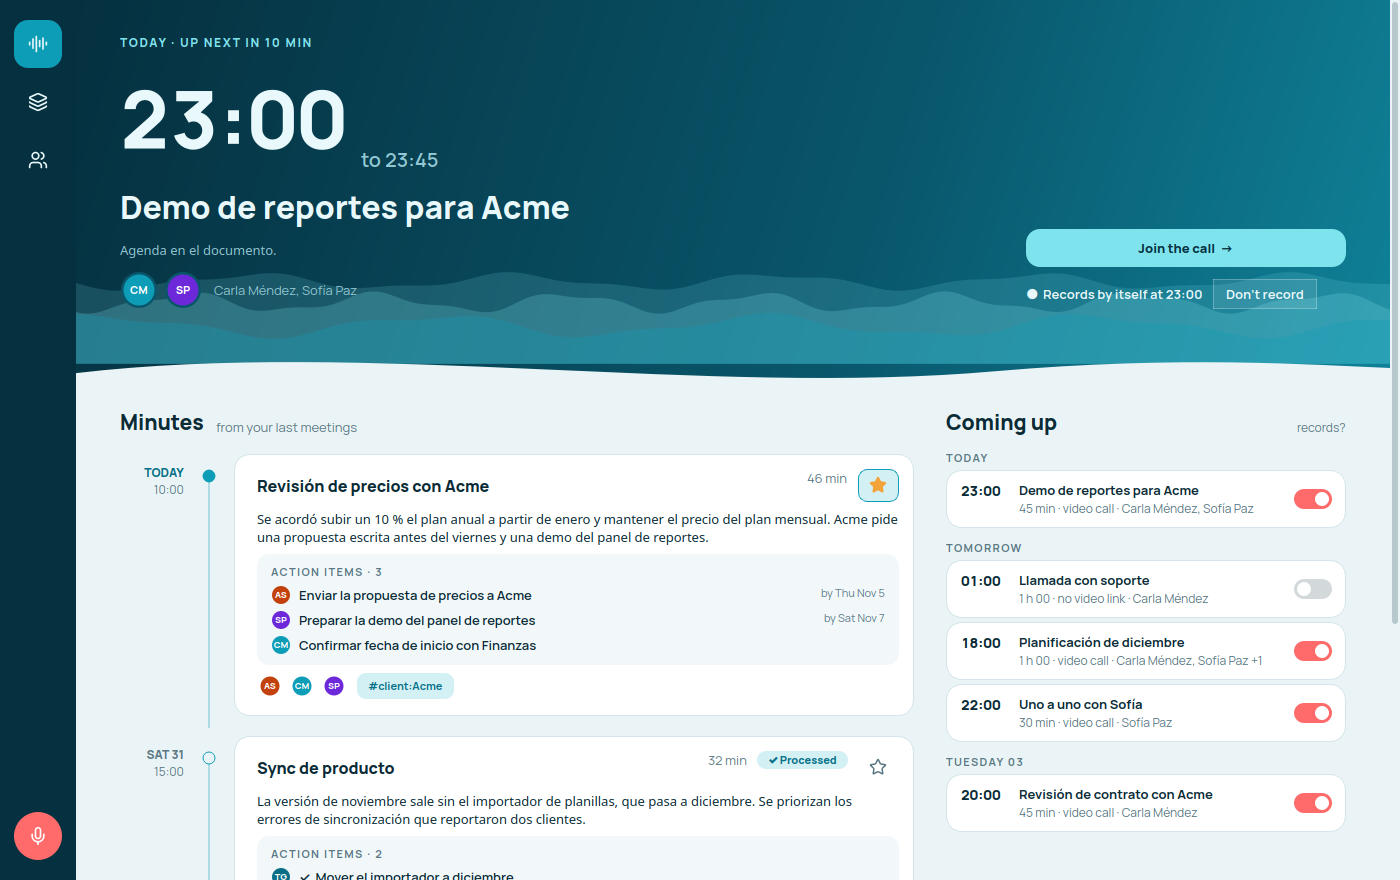
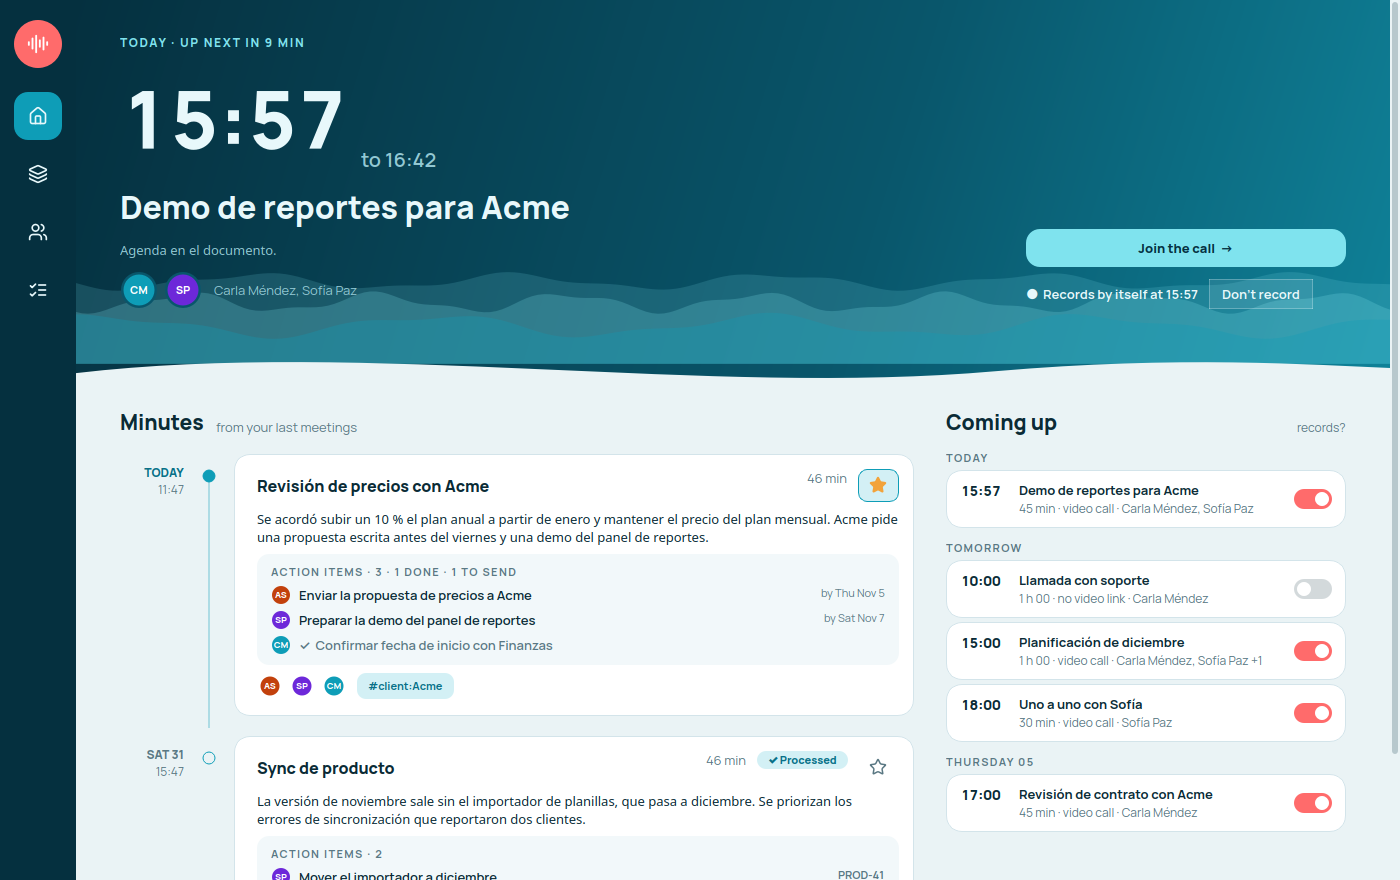
Document the action items page, undo, keys and note times
The guide, changelog, README and Studio roadmap describe them, and the OpenSpec change records
the requirements and the choices made. docs/studio.png is taken again, offscreen with invented
meetings, with Record at the top of the rail and the Action items page in it.

diff --git a/docs/guide.md b/docs/guide.md
@@ -70,7 +70,9 @@ their title from their first sentence.
 **Recording dock.** Ctrl+Shift+D (or View → Recording dock) swaps the window for a small dock
 that floats over other windows: Record, the time, a small wave that follows your voice, Marker
 (with a count), Notes, Pause, Stop and a button back to the window. Notes (or N) drops a field
-under the dock with the recording's notes, the same ones as in Details, saved as you type. While
+under the dock with the recording's notes, the same ones as in Details, saved as you type; Ctrl+T
+in it writes the recording's time, as in `[12:34] price`, and the minutes then cover what was said
+at that moment the way they cover a marker. While
 recording, with the pointer away for a few seconds and the notes closed, it shrinks to the time;
 point at it for the rest. Problems such as a silent
 microphone show in it in amber. After Stop it says the recording was saved and how the
@@ -346,7 +348,7 @@ turn automatic summaries off.
 
 **The window.** Once a server or a calendar is set, a rail at the left holds Record at the top
 (the coral waveform, Ctrl+R), then Briefing (Ctrl+1), Recordings (Ctrl+2: Echo's window as always)
-and People (Ctrl+3). Record works from any page and records from the input chosen under Record in
+People (Ctrl+3) and Action items (Ctrl+4). Record works from any page and records from the input chosen under Record in
 Recordings; while it records, the rail shows the time under it, and pressing it again stops.
 
 **Briefing.** At the top, the next meeting from your calendar: its time, title, invitation, who
@@ -375,6 +377,13 @@ per summary, for everyone named in it, and is kept in `parts.json` in the record
 meeting summarized before this version has the line without the points until you summarize it
 again. Stars are kept in `marks.json`.
 
+**Action items.** The rail's Action items page lists the items not yet checked off from every
+meeting, newest meeting first, under a heading per meeting (click it to open that meeting's Action
+items). It works like a meeting's view, so you can clear last week's items without opening each
+call: check them off, switch them on for the tracker, edit or discard them. Items you check off or
+discard leave the page; the meeting's own view still has them. The filter at the top matches an
+item's words, its owner and its meeting's title.
+
 **Minutes.** Over the transcript, a Transcript / Minutes / Action items switch. Minutes shows the
 selected recording's summary, with Summarize (Summarize again once there is one) and Copy. Its
 action items have a view of their own, so neither is squeezed when the window is narrow; the
@@ -398,12 +407,18 @@ checkbox, a title, a description
 (what exactly and why, with the details that were said, so it stands on its own in a tracker), its
 owner, the date it was promised for and a button that plays where it came up. They come from a
 request of their own over the summary and the transcript, so they can include commitments the
-summary's next steps leave out. Check an item off when it is done: it folds to its title, struck
-through, and stays in the list. The check mark is yours: Echo never marks items late and does not
+summary's next steps leave out. Check an item off when it is done: it moves to the end, under a
+"done" line where Show lists the checked-off ones. The check mark is yours: Echo never marks items late and does not
 remind you. The pencil corrects the title, description, owner and date, adds context for whoever
 picks the item up and a note only for you; the cross discards it (discarded items fold into one
 line, where Show lists them with Restore), and Add writes one by hand. A person's page in People
-lists the items assigned to them, to work on there too. The items are kept in `actions.json` in
+lists the items assigned to them, to work on there too. After checking an item off, discarding it
+or switching them all, a bar says what changed: **Undo** (or Ctrl+Z) takes it back for a few
+seconds.
+
+The lists work from the keyboard: click an item, or Tab into the list, then ↑ and ↓ (or J and K)
+move between items, Space checks the current one off, T switches it for the tracker, E or Enter
+edits it, Delete discards it (or restores a discarded one), and Ctrl+Z undoes. The items are kept in `actions.json` in
 the recording's folder; summarizing again keeps your edits, context, notes, check marks, discards
 and the items you added. Items from summaries made before
 this version have no description until you summarize again.
@@ -413,6 +428,8 @@ you use for that (an agent, a script, a scheduled sync) asks Echo for what you a
 it what happened. Not every item belongs in a tracker, so nothing goes until you choose it: each
 item has a **To tracker** switch, off to begin with. Switch on the ones that should go; until they
 are sent you can still edit them or switch them off again. Discarding an item switches it off.
+When most of a meeting's items should go, **Switch all on** in the bar above them switches every
+open one on (done and discarded ones are left as they are); then switch off the few that stay.
 
 When something sends them:
 - Each item shows **✓ Sent · REF**, a link to it in the tracker, and can no longer be edited in

diff --git a/openspec/changes/refine-studio-record-and-actions/specs/studio-actions/spec.md b/openspec/changes/refine-studio-record-and-actions/specs/studio-actions/spec.md
@@ -6,8 +6,17 @@ the width of the content; its tab SHALL show how many items are not done. Minute
 summary alone. Each item SHALL show a done checkbox, its title, owner, due date as "by <date>",
 description, context, the user's note and a button that plays where it came up.
 
+Done items SHALL move to the end of a list, folded under one line ("N done") that shows them.
+After an item is checked off or discarded, or a meeting's items are all switched, the list SHALL
+offer to undo it for a few seconds (also with Ctrl+Z). The lists SHALL work from the keyboard:
+↑/↓ (or J/K) to move, Space to check off, T to switch for the tracker, E or Enter to edit, Delete
+to discard or restore.
+
 A person's page SHALL list the items assigned to them across the library, newest first, and they
-SHALL be worked on there as in the Action items view. No screen SHALL mark items as late or
+SHALL be worked on there as in the Action items view. The rail's Action items page SHALL list
+every item not done nor discarded across the library, newest meeting first, under a heading per
+meeting that opens its Action items, with a filter on the item's words, owner and meeting title;
+an item checked off or discarded there SHALL leave the page. No screen SHALL mark items as late or
 pending, and Echo SHALL NOT remind about them.
 
 #### Scenario: A narrow window
@@ -16,7 +25,11 @@ pending, and Echo SHALL NOT remind about them.
 
 #### Scenario: Checked off
 - **WHEN** the user checks "Revisar el contrato marco"
-- **THEN** it shows struck through on one line, `actions.json` has it done, and the tab counts one fewer
+- **THEN** it moves under "1 done" at the end, `actions.json` has it done, the tab counts one fewer, and Undo takes it back
+
+#### Scenario: Last week's items
+- **WHEN** three meetings have open items and the user opens Action items in the rail and types "lucía"
+- **THEN** the page shows the open items Lucía owns, under the heading of each meeting they came from
 
 ### Requirement: Sending action items to a tracker
 Each item SHALL have a state (proposed, ready, sent or failed) and a uid that summarizing again
@@ -24,7 +37,8 @@ does not change.
 
 Each item SHALL have a To tracker switch, off by default. Switching it on SHALL make the item
 ready, switching it off SHALL make it proposed, and discarding it SHALL switch it off. Switching a
-failed item on SHALL make it ready again.
+failed item on SHALL make it ready again. Switch all on SHALL switch on every item of the meeting
+that is not done, discarded or sent (Switch all off, every one of those off).
 
 An item marked sent SHALL keep the tracker's reference, link and time, show them, and SHALL NOT
 be edited, discarded or switched in Echo afterwards; it SHALL still take the done mark. An item

diff --git a/openspec/changes/refine-studio-record-and-actions/proposal.md b/openspec/changes/refine-studio-record-and-actions/proposal.md
@@ -30,6 +30,13 @@ Using Studio for a few days showed two things in the way:
 
 - **No instructions on screen.** The view has no paragraph explaining itself; each control's
   tooltip says what it does.
+- **Working through items.** Done items move to the end, folded under "N done". Undo (and
+  Ctrl+Z) takes back a check mark, a discard or a Switch all on. The lists work from the keyboard.
+  Switch all on chooses every open item of a meeting at once.
+- **Every meeting's items.** An Action items page in the rail (Ctrl+4) lists the open items of
+  all meetings under a heading per meeting, with a filter.
+- **Notes with a time.** A note line that starts with "[12:34]" (the dock's Ctrl+T writes it) is
+  sent with what was said then, as a marker is.
 - **Scrolling.** The Action items list, the Briefing and People paint an opaque background, so a
   scroll moves what is painted instead of repainting every card (it chugged on the user's screen).
 
@@ -40,11 +47,12 @@ Using Studio for a few days showed two things in the way:
 - `studio-actions` (from `add-studio-actions`, `change-studio-action-edits`,
   `refine-studio-after-first-use` and `add-studio-tracker-handoff`, not yet archived)
 - `studio-home` (from `add-studio-home` and `refine-studio-after-first-use`, not yet archived)
+- `studio-summaries` (from `add-studio-notes-first`, not yet archived)
 
 ## Impact
 
 - Code: `src/echo_studio/actions.py`, `actions_ui.py`, `ui.py`, `home.py`, `window.py`,
-  `widgets.py`, `data.py`, `cli.py`, `__init__.py`. Echo gains the `house` icon (Lucide).
+  `widgets.py`, `data.py`, `cli.py`, `summary.py`, `__init__.py`. Echo gains the `house` icon (Lucide).
 - Files: `actions.json` items gain `done`; `ready_at` now means "reviewed".
 - Command line: `done` in the item JSON and in `status`; help reworded. No command removed.
 - `agents/echo/SKILL.md`, `docs/guide.md`, `docs/studio-roadmap.md`, `CHANGELOG.md`.

diff --git a/README.md b/README.md
@@ -52,7 +52,7 @@ and organizes your meetings around your calendar. Install it with `./install.sh 
 | **What you get** | Audio, transcripts, speakers, search, exports | Minutes, action items, people, and a hand-off to the tools your team already uses |
 
 <p align="center">
-  <img src="docs/studio.png" alt="Echo Studio's Briefing: the next meeting in a deep teal band, the minutes of the last meetings with their action items, and the week's meetings with a record switch each" width="900">
+  <img src="docs/studio.png" alt="Echo Studio's Briefing: Record at the top of the rail, the next meeting in a deep teal band, the minutes of the last meetings with their action items, and the week's meetings with a record switch each" width="900">
 </p>
 
 - **Briefing.** The next meeting from your calendar (a private ICS address from Google Calendar
@@ -60,7 +60,8 @@ and organizes your meetings around your calendar. Install it with `./install.sh 
 - **Records by itself** when a meeting with a video link starts, and names it after the event.
 - **Minutes** written from the transcript and your notes, with a template per kind of meeting.
 - **Action items** in a view of their own, with owner, date, a description and the moment they
-  were said. Check them off, correct, discard or add them.
+  were said, and on a page with every meeting's open ones. Check them off, correct, discard or add
+  them, from the mouse or the keyboard.
 - **People** by email: the meetings with each one, their part in them and their action items.
   Star and tag meetings to find them again.
 - **Ready for your tracker.** Switch on the items that should go, and any script or agent picks

diff --git a/CHANGELOG.md b/CHANGELOG.md
@@ -12,13 +12,20 @@ tag.
 - The recording dock has Notes (N): the recording's notes in a field under the dock, saved as
   you type.
 - Settings → General: "Switch to the recording dock when a recording starts".
+- Ctrl+T in the dock's notes writes the recording's time (`[12:34]`); Echo Studio's minutes cover
+  what was said at that moment, as they do for a marker.
+- Echo Studio: an Action items page in the rail (Ctrl+4) with every meeting's open items, under a
+  heading per meeting, with a filter.
+- Echo Studio: Switch all on (or off) for a meeting's items, Undo (and Ctrl+Z) after checking an
+  item off, discarding it or switching them all, and keys for the item lists (↑↓ or J/K, Space,
+  T, E, Delete).
 
 ### Changed
 
 - Echo Studio: Record heads the rail, with the waveform and the elapsed time, so recording no
   longer starts from the list of past meetings. The Briefing's icon is a house.
 - Echo Studio: action items have their own view beside Minutes, with a done checkbox and a
-  To tracker switch per item. Sending is opt-in: nothing goes to the tracker until switched on.
+  To tracker switch per item; checked-off items move to the end, folded under "N done". Sending is opt-in: nothing goes to the tracker until switched on.
   Ready to send… is replaced by "Done with this meeting"; meetings marked ready in 1.5.0 keep
   their items. Scrolling the items, the Briefing and People no longer repaints every card.
 

diff --git a/docs/studio-roadmap.md b/docs/studio-roadmap.md
@@ -269,7 +269,9 @@ After a few days of use: Record heads the rail (waveform, clock), so recording n
 list of past meetings. Action items get their own view beside Minutes,
 each with a done checkbox (the user's mark; still no late dates or reminders) and a To tracker
 switch, off by default: sending is opt-in per item, and "Done with this meeting" replaces Ready
-to send.
+to send. Then, to work through them: done items fold to the end, Undo, keys, Switch all on, and an
+Action items page in the rail with every meeting's open items. A note line that starts with a
+time (the dock's Ctrl+T) is summarized like a marker.
 
 ### S15 Data out (`add-studio-cli-data`)
 
@@ -283,8 +285,9 @@ that tells an agent how to read them.
 
 - **Proactive briefs and catch-up suggestions,** and anything that needs knowledge beyond the
   calendar and the recordings.
-- **Reminders, late dates and a pending list.** The tracker the team uses does that; done is only
-  the user's own check mark (S18).
+- **Reminders and late dates.** The tracker the team uses does that; done is only the user's own
+  check mark (S18). The Action items page lists what is not checked off, and says nothing of
+  dates passed.
 - **Connectors that push** (Plane, Trello, Jira, Slack, Notion, SMTP). The CLI and the ready /
   sent hand-off (S17) are the way out; the team's own agent or script does the sending.
 - **An MCP server.** The CLI and an agent skill cover it.

diff --git a/openspec/changes/refine-studio-record-and-actions/design.md b/openspec/changes/refine-studio-record-and-actions/design.md
@@ -48,3 +48,16 @@ items' column beside the summary was also too narrow once the window was not max
   (the ✓ that marked them sent would now read as done).
 - The hero's Record this meeting shows only while the next meeting is under way and not recorded,
   and names the recording after it.
+- Checked-off items move to the end under "N done", folded, instead of staying in place struck
+  through: on a meeting with many items the open ones were lost among the done. Unchecking one
+  puts it back in the meeting's order.
+- Undo puts back exactly the fields a check mark, discard or switch changes (`done`, `discarded`,
+  `state`, `failure`), unless the item was sent in between. The bar stays 8 s; Ctrl+Z works while
+  the list has focus.
+- Switch all on leaves done items off: a checked-off item is rarely one to file now. It is one
+  click to switch one on.
+- The rail's Action items page comes after People with Ctrl+4, so Ctrl+1–3 keep their pages. It
+  shows only open items; done and discarded ones stay in each meeting's view, so the page does not
+  grow with every meeting ever held.
+- Ctrl+T writes the recorded audio's length (what `status()["elapsed"]` counts), which is the
+  time in the recording the note will play from.

diff --git a/openspec/changes/refine-studio-record-and-actions/specs/studio-summaries/spec.md b/openspec/changes/refine-studio-record-and-actions/specs/studio-summaries/spec.md
@@ -1,0 +1,20 @@
+## MODIFIED Requirements
+
+### Requirement: Notes and markers lead the summary
+When a recording has notes or markers, they SHALL be sent ahead of the transcript (each marker
+with its time, its note and the passage said around it; a note line that starts with a time, as
+"[12:34]", with the passage said around that time), and the summary SHALL be asked to cover each
+one. What the summary is made from SHALL include them, so a changed note or marker marks the
+summary out of date. A recording with neither SHALL be summarized as before.
+
+#### Scenario: A marked moment
+- **WHEN** the user marked 0:06 with "precio" and summarizes
+- **THEN** the request carries "at 0:06: precio" with the passage around it, before the transcript
+
+#### Scenario: A note with its time
+- **WHEN** the recording's notes have the line "[1:06] el cierre, revisar"
+- **THEN** the request carries that line with what was said around 1:06 under it
+
+#### Scenario: A note edited after
+- **WHEN** the user edits the recording's notes after its summary was made
+- **THEN** the Summary view says the summary is out of date

diff --git a/openspec/changes/refine-studio-record-and-actions/tasks.md b/openspec/changes/refine-studio-record-and-actions/tasks.md
@@ -18,6 +18,16 @@
   "Done with this meeting"
 - [x] 2.5 Screenshots at 1400 and 900 px wide (offscreen, invented data)
 
+- [x] 2.8 Done items folded at the end of a list; Undo bar and Ctrl+Z after check off, discard
+  and switch all (`snapshot`/`restore`); tests
+- [x] 2.9 Switch all on / off in the send bar (`set_send_all`: open items only); test
+- [x] 2.10 Keys in the item lists (↑↓ J/K, Home/End, Space, T, E/Enter, Delete, Ctrl+Z), the
+  current item outlined; test
+- [x] 2.11 The rail's Action items page (Ctrl+4): `open_items` across the library, a heading per
+  meeting, a filter; tests
+- [x] 2.12 A note line starting with a time gets the passage around it in the summary request; test
+
 ## 3. Documents
 
-- [x] 3.1 Guide, Studio roadmap, changelog
+- [x] 3.1 Guide, Studio roadmap, changelog, README
+- [x] 3.2 `docs/studio.png` taken again with the 1.6.0 rail (offscreen, invented data)

diff --git a/openspec/changes/refine-studio-record-and-actions/specs/studio-home/spec.md b/openspec/changes/refine-studio-record-and-actions/specs/studio-home/spec.md
@@ -2,7 +2,7 @@
 
 ### Requirement: Studio's window
 With a summaries server or a calendar set, the window SHALL show a rail with Record at the top,
-then Briefing, Recordings and People, opening on Briefing; Recordings SHALL be Echo's window
+then Briefing, Recordings, People and Action items, opening on Briefing; Recordings SHALL be Echo's window
 unchanged. Record SHALL start and stop a recording from any page and SHALL show the elapsed time
 while recording. Without a server or a calendar, the window SHALL be Echo's. Showing a recording
 from anywhere SHALL go to Recordings.
